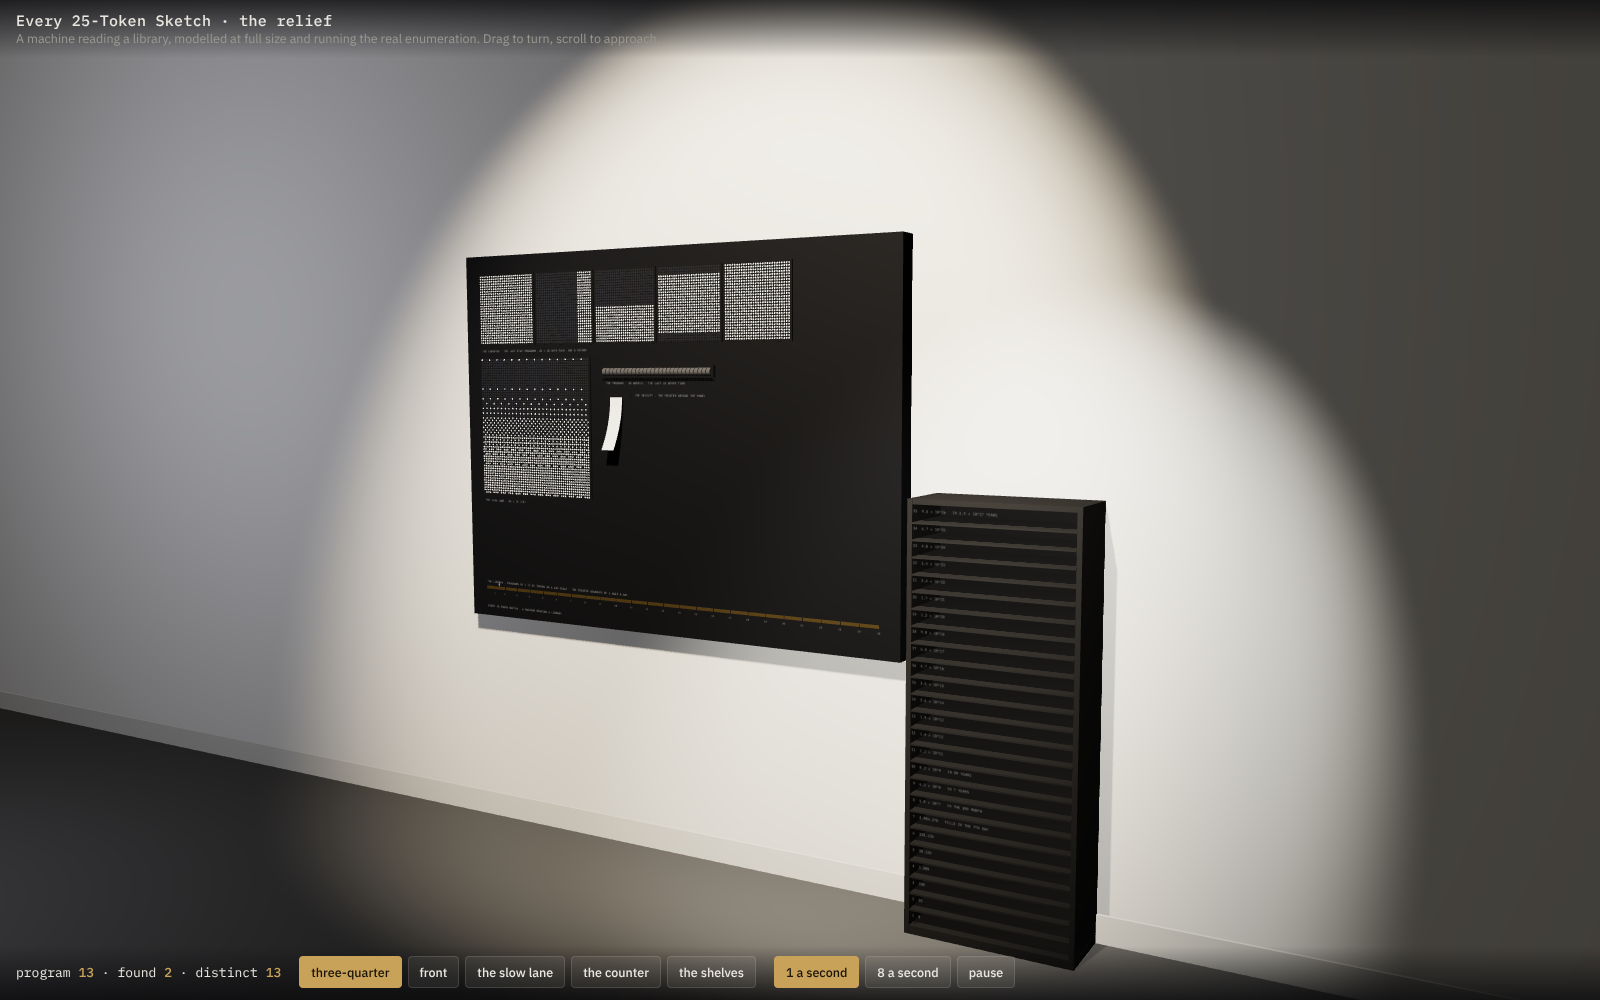
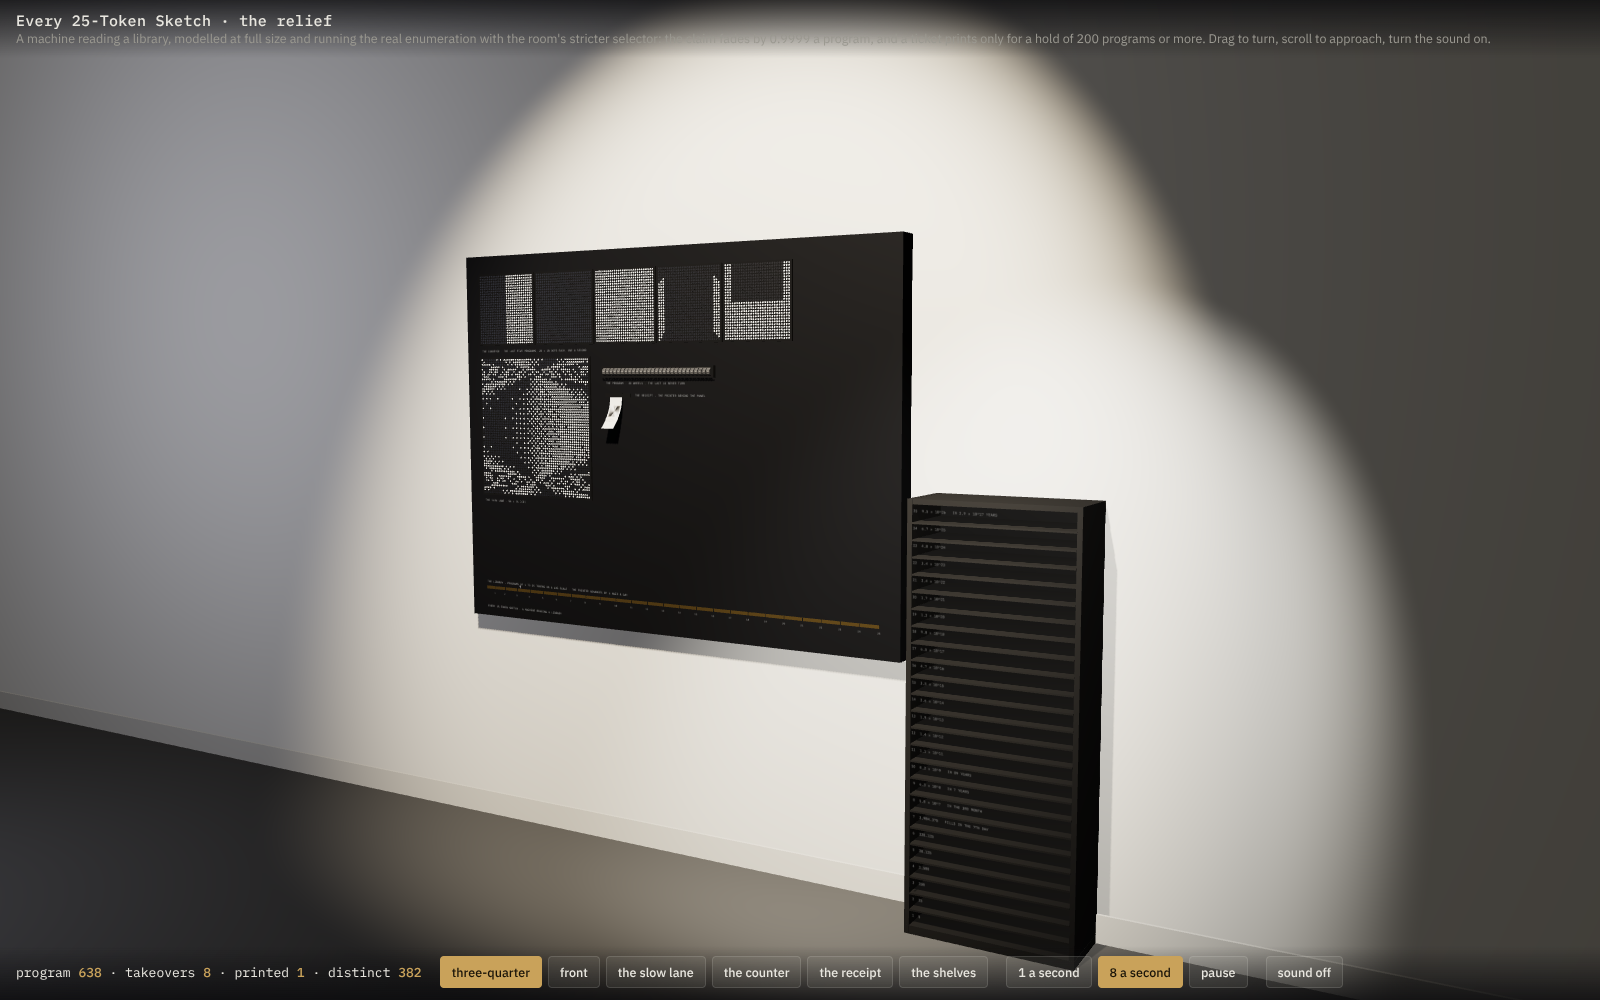
045: the room's stricter selector — fade 0.9999, a ticket only for a hold of 200
Under the screen's rule (fade 0.9992 a program) the machine at one program a second prints
about 100 tickets an exhibition day, 9 m of paper, 39,000 tickets a year, and the sixth shelf
of the bookcase would need 15 m within a month. The room's rule, now the default in
receipt.js (--fade, --minhold), controller.js (--fade), the simulator (?fade, ?minhold) and
the three-dimensional model: the champion's claim fades by 0.9999 a program, and a ticket is
printed only for a champion that held the lane 200 programs or more. Measured on day one at
one a second: 33 takeovers, 16 tickets, 1.5 m of paper; a roll lasts two months; a year is
about 6,000 tickets. The screen on NEORT keeps its own rule.

The model's HUD counts takeovers and printed separately; the paper, the printer's sound and
the shelves follow the printed. The receipt view is framed on the slot. README, BUILD.md and
DESIGN.md carry the measured numbers.

Claude-Session: https://claude.ai/code/session_01FhnofTHF49yv2QouZWRnps

diff --git a/projects/045-every-25-token-sketch/relief/model.html b/projects/045-every-25-token-sketch/relief/model.html
@@ -1,4 +1,4 @@
-<!doctype html><html><head><meta charset="utf-8"><meta name="viewport" content="width=device-width,initial-scale=1"></head><body style="margin:0"><title>A Machine Reading a Library</title>
+<!doctype html><html><head><meta charset="utf-8"><meta name="viewport" content="width=device-width,initial-scale=1"></head><body style="margin:0"><title>A Machine Reading a Library, Strict</title>
 <meta name="claude:viewport-fit-sides" content="cover">
 <style>
   /* layout: a full-window WebGL room with a thin instrument bar across the foot; the room is the page */
@@ -34,11 +34,11 @@
 <div class="hud top">
   <div>
     <h1>Every 25-Token Sketch · the relief</h1>
-    <p class="sub">A machine reading a library, modelled at full size and running the real enumeration. Drag to turn, scroll to approach, turn the sound on to hear it read.</p>
+    <p class="sub">A machine reading a library, modelled at full size and running the real enumeration with the room's stricter selector: the claim fades by 0.9999 a program, and a ticket prints only for a hold of 200 programs or more. Drag to turn, scroll to approach, turn the sound on.</p>
   </div>
 </div>
 <div class="hud bottom">
-  <div class="stat">program <b id="prog">0</b> · found <b id="found">0</b> · distinct <b id="distinct">0</b></div>
+  <div class="stat">program <b id="prog">0</b> · takeovers <b id="found">0</b> · printed <b id="printed">0</b> · distinct <b id="distinct">0</b></div>
   <div class="group" role="group" aria-label="view">
     <button id="v0" aria-pressed="true">three-quarter</button><button id="v1">front</button><button id="v2">the slow lane</button><button id="v3">the counter</button><button id="v4">the receipt</button><button id="v5">the shelves</button>
   </div>
@@ -462,7 +462,9 @@ function dots(k, n, t, dither, out) {
   return out;
 }
 let rate = 1, paused = false;
-let M = Babel.create(document.getElementById('hidden'), { rate, prologue: 0 });
+const FADE = 0.9999, MINHOLD = 200;                   // the room's selector: stricter than the screen's 0.9992, and a ticket only for a hold of 200 or more
+let M = Babel.create(document.getElementById('hidden'), { rate, prologue: 0, fade: FADE });
+const printedOf = (found) => found.filter((f) => (f.until - f.since) * rate >= MINHOLD);
 const grp = (n) => String(n).replace(/\B(?=(\d{3})+(?!\d))/g, ',');
 
 // ───────────────────────── the sound: flip-dots, the counter, the printer ─────────────────────────
@@ -528,7 +530,7 @@ const controls = new OrbitControls(camera, canvas); controls.enableDamping = tru
 // world space: the panel face spans x −1 … 1, y 0.9 … 2.4; the lane centre is (−0.64, 1.70), the counter (0, 1.925), the shelves (1.4, 0.75)
 const VIEWS = [
   { p: [2.9, 1.9, 4.2], t: [0.55, 1.45, 0] }, { p: [0.5, 1.65, 4.6], t: [0.5, 1.55, 0] },
-  { p: [-0.5, 1.78, 1.25], t: [-0.64, 1.70, 0.08] }, { p: [0.12, 1.98, 0.78], t: [0.0, 1.92, 0.08] }, { p: [-0.02, 1.52, 0.58], t: [-0.22, 1.42, 0.12] }, { p: [1.95, 1.35, 2.2], t: [1.4, 0.8, 0.12] },
+  { p: [-0.5, 1.78, 1.25], t: [-0.64, 1.70, 0.08] }, { p: [0.12, 1.98, 0.78], t: [0.0, 1.92, 0.08] }, { p: [-0.04, 1.74, 0.52], t: [-0.22, 1.66, 0.1] }, { p: [1.95, 1.35, 2.2], t: [1.4, 0.8, 0.12] },
 ];
 let viewFrom = null, viewTo = null, viewT = 1;
 function goView(i) { viewFrom = { p: camera.position.clone(), t: controls.target.clone() }; viewTo = { p: new THREE.Vector3(...VIEWS[i].p), t: new THREE.Vector3(...VIEWS[i].t) }; viewT = 0; for (let j = 0; j < 6; j++) document.getElementById('v' + j).setAttribute('aria-pressed', String(j === i)); }
@@ -736,7 +738,7 @@ function animateFields(now) {
 }
 function setCounter(next, now) { const s = String(next).padStart(28, '0'); let changed = 0; for (let i = 0; i < 28; i++) { const d = +s[i], w = wheels[i]; if (d !== w.digit) { w.from = w.digit; w.digit = d; w.at = now; changed++; } } soundTicks(changed); }
 function animateWheels(now) { for (const w of wheels) { let d = w.digit; if (w.at >= 0) { const u = Math.min(1, (now - w.at) / 0.25); const from = w.from, to = w.digit, delta = ((to - from) % 10 + 10) % 10; d = from + delta * (u < 1 ? (1 - Math.cos(u * Math.PI)) / 2 : 1); if (u >= 1) w.at = -1; } w.mesh.rotation.x = ((d + 0.5) / 10) * Math.PI * 2; } }   // the rim's u runs from the face upward; rotating by +θ brings digit d to the face
-const el = { prog: document.getElementById('prog'), found: document.getElementById('found'), distinct: document.getElementById('distinct') };
+const el = { prog: document.getElementById('prog'), found: document.getElementById('found'), printed: document.getElementById('printed'), distinct: document.getElementById('distinct') };
 function tick(now) {
   const s = M.stats(), champ = M.champion();
   if (s.next !== lastNext) {
@@ -745,7 +747,8 @@ function tick(now) {
     setCounter(s.next, now);
     const px = rx(Math.max(1, s.next)); const p = mm(px, 1366, 0.012); pointer.position.set(p.x, p.y, p.z);
     el.prog.textContent = grp(s.next); el.found.textContent = grp(s.found); el.distinct.textContent = grp(s.distinct);
-    const fl = M.found(); fileTickets(fl); if (fl.length !== paperFor) { if (paperFor >= 0 && fl.length > paperFor) soundPrint(); drawTickets(fl); layPaper(fl.length); }
+    const pr = printedOf(M.found()); el.printed.textContent = grp(pr.length);
+    fileTickets(pr); if (pr.length !== paperFor) { if (paperFor >= 0 && pr.length > paperFor) soundPrint(); drawTickets(pr); layPaper(pr.length); }
   }
   if (champ && champ.k !== lastChamp) { lastChamp = champ.k; setField(lane, dots(champ.k, 56, now, true, buf56), now); }
 }
@@ -768,6 +771,6 @@ function setRate(r) { rate = r; document.getElementById('r1').setAttribute('aria
 document.getElementById('sound').addEventListener('click', (e) => { audioEnsure(); audio.on = !audio.on; e.currentTarget.setAttribute('aria-pressed', String(audio.on)); e.currentTarget.textContent = audio.on ? 'sound on' : 'sound off'; if (audio.on) soundFlips(28, false); });
 document.getElementById('r1').addEventListener('click', () => setRate(1));
 document.getElementById('r8').addEventListener('click', () => setRate(8));
-document.getElementById('pause').addEventListener('click', (e) => { paused = !paused; e.currentTarget.setAttribute('aria-pressed', String(paused)); e.currentTarget.textContent = paused ? 'resume' : 'pause'; if (paused) M.destroy(); else { M = Babel.create(document.getElementById('hidden'), { rate, prologue: 0, from: lastNext }); } });
+document.getElementById('pause').addEventListener('click', (e) => { paused = !paused; e.currentTarget.setAttribute('aria-pressed', String(paused)); e.currentTarget.textContent = paused ? 'resume' : 'pause'; if (paused) M.destroy(); else { M = Babel.create(document.getElementById('hidden'), { rate, prologue: 0, from: lastNext, fade: FADE }); } });
 </script>
 </body></html>

diff --git a/projects/045-every-25-token-sketch/receipt/receipt.js b/projects/045-every-25-token-sketch/receipt/receipt.js
@@ -9,6 +9,13 @@
 //
 //   node receipt.js [--device /dev/usb/lp0 | --tcp host:9100 | --out file.bin | --png dir]
 //                   [--width 384|576] [--rate 8] [--start HH:MM] [--replay N] [--cut]
+//                   [--fade 0.9999] [--minhold 200]
+//
+// The room's selector is stricter than the screen's: the champion's claim fades by 0.9999 a
+// program (the screen's 0.9992), and a ticket is printed only for a champion that held the lane
+// 200 programs or more — the ones that lasted. Measured at one program a second, that is about
+// a dozen tickets an exhibition day instead of a hundred. --fade 0.9992 --minhold 0 prints as
+// the screen selects.
 //
 // --device   write ESC/POS bytes to a printer device (USB: /dev/usb/lp0; serial: /dev/ttyUSB0)
 // --tcp      send to a network printer on port 9100
@@ -20,6 +27,8 @@
 //            a screen started at the same minute agree on the program number
 // --replay   do not run live: print the found through program N at once (e.g. 30905), then exit
 // --cut      partial cut after each ticket (printers with a cutter); default: feed only
+// --fade     the champion's fade per program (default 0.9999; the screen uses 0.9992)
+// --minhold  print only a champion that held the lane at least this many programs (default 200)
 //
 // No dependencies. Tested with the ESC/POS raster command GS v 0, which Epson TM-T20/T88 and the
 // common 58 mm kiosk printers accept.
@@ -29,7 +38,7 @@ const fs = require('fs'), path = require('path'), net = require('net'), vm = req
 // ───────────────────────── arguments ─────────────────────────
 const A = {}; const argv = process.argv.slice(2);
 for (let i = 0; i < argv.length; i++) { const k = argv[i]; if (k.startsWith('--')) { const v = argv[i + 1] && !argv[i + 1].startsWith('--') ? argv[++i] : true; A[k.slice(2)] = v; } }
-const WIDTH = +(A.width || 384), RATE = +(A.rate || 8), PROLOGUE = 280;
+const WIDTH = +(A.width || 384), RATE = +(A.rate || 8), PROLOGUE = 280, FADE = +(A.fade || 0.9999), MINHOLD = +(A.minhold === undefined ? 200 : A.minhold);
 const COLS = Math.floor(WIDTH / 12);          // characters a line in the printer's font A (12 dots wide): 32 on 58 mm, 48 on 80 mm
 if (!A.device && !A.tcp && !A.out && !A.png) { console.error('nothing to print to: give --device, --tcp, --out or --png'); process.exit(2); }
 
@@ -145,8 +154,10 @@ function flush(M, when) {                      // print every found not yet prin
   const list = M.found().slice().reverse();
   for (const f of list) {
     if (seen.has(f.k)) continue;
-    seen.add(f.k); printed++;
+    seen.add(f.k);
     const held = Math.round((f.until - f.since) * RATE);
+    if (held < MINHOLD) continue;                                  // it did not last: no ticket
+    printed++;
     const entry = Object.assign({}, f, { held });
     const w = when || jst(Date.now());
     send(ticket(entry, printed, w));
@@ -156,7 +167,7 @@ function flush(M, when) {                      // print every found not yet prin
 }
 if (A.replay) {
   const n = +A.replay;
-  const M = Babel.create(canvas(), { at: n, rate: RATE, prologue: PROLOGUE });
+  const M = Babel.create(canvas(), { at: n, rate: RATE, prologue: PROLOGUE, fade: FADE });
   flush(M, 'replay through program ' + grp(n));
   const s = M.stats();
   console.log('replay done: ' + grp(s.next) + ' programs, ' + grp(s.distinct) + ' distinct pictures, ' + grp(s.dups) + ' repeats, ' + grp(printed) + ' tickets');
@@ -172,7 +183,7 @@ if (A.replay) {
     if (elapsed < 0) console.log('starts at ' + A.start + ' JST, in ' + Math.round(-elapsed) + ' s');
     else console.log('locked to ' + A.start + ' JST: beginning at program ' + grp(from + 1));
   }
-  const M = Babel.create(canvas(), { rate: RATE, prologue: PROLOGUE, from });
-  console.log('live: ' + RATE + ' programs a second, ' + WIDTH + ' dots across. Ctrl-C to stop.');
+  const M = Babel.create(canvas(), { rate: RATE, prologue: PROLOGUE, from, fade: FADE });
+  console.log('live: ' + RATE + ' programs a second, ' + WIDTH + ' dots across, fade ' + FADE + ', a ticket for a hold of ' + MINHOLD + ' or more. Ctrl-C to stop.');
   setInterval(() => { if (rafCb) { const cb = rafCb; rafCb = null; cb(Date.now()); } flush(M); }, 50);
 }

diff --git a/projects/045-every-25-token-sketch/relief/simulator.html b/projects/045-every-25-token-sketch/relief/simulator.html
@@ -42,7 +42,8 @@
     for (let j = 0; j < n; j++) { const y = -2 + (4 * (j + 0.5)) / n; for (let i = 0; i < n; i++) { const x = -2 + (4 * (i + 0.5)) / n; let v = f(x, y, t, D, Mf); if (!isFinite(v)) v = 0; const tone = 0.5 + 0.5 * Math.sin(v); out[j * n + i] = tone > (dither ? (BAYER[j & 3][i & 3] + 0.5) / 16 : 0.5) ? 1 : 0; } }
     return out;
   }
-  const M = Babel.create(document.getElementById('hidden'), { rate: RATE, prologue: 0, at: AT });
+  const FADE = +(q.get('fade') || 0.9999), MINHOLD = +(q.get('minhold') || 200);   // the room's selector: stricter than the screen's
+  const M = Babel.create(document.getElementById('hidden'), { rate: RATE, prologue: 0, at: AT, fade: FADE });
   let scale = 1, ox = 0, oy = 0;
   function layout() {
     const dpr = Math.min(devicePixelRatio || 1, 2);
@@ -60,7 +61,8 @@
   function engrave(s, x, y, size, align) { ctx.fillStyle = 'rgba(232,230,223,0.5)'; ctx.font = size + 'px ' + MONO; ctx.textAlign = align || 'left'; ctx.fillText(s, x, y); }
   const grp = (n) => String(n).replace(/\B(?=(\d{3})+(?!\d))/g, ',');
   function draw() {
-    const s = M.stats(), champ = M.champion(), found = M.found(), t = performance.now() / 1000;
+    const s = M.stats(), champ = M.champion(), all = M.found(), t = performance.now() / 1000;
+    const found = all.filter((f) => (f.until - f.since) * RATE >= MINHOLD);   // the printed: the ones that held the lane
     ctx.setTransform(1, 0, 0, 1, 0, 0); ctx.fillStyle = '#141418'; ctx.fillRect(0, 0, cv.width, cv.height);
     ctx.setTransform(scale, 0, 0, scale, ox, oy);
     // the panel
@@ -105,7 +107,7 @@
     const sx = wx, sy = wy + 100;
     ctx.fillStyle = '#1b1b20'; ctx.fillRect(sx, sy, 120, 14); ctx.fillStyle = '#e8e6df'; ctx.fillRect(sx + 10, sy + 2, 100, 4);
     ctx.fillStyle = 'rgba(232,230,223,0.9)'; ctx.fillRect(sx + 10, sy + 16, 100, Math.min(TILES === 25 ? 500 : 380, 40 + found.length * 6));
-    engrave('THE RECEIPT . ' + grp(found.length) + ' FOUND', sx + 140, sy + 12, 13);
+    engrave('THE RECEIPT . ' + grp(found.length) + ' PRINTED OF ' + grp(all.length) + ' TAKEOVERS . A TICKET FOR A HOLD OF ' + MINHOLD + ' OR MORE', sx + 140, sy + 12, 13);
     // the ruler: the library on a log scale, brass
     const ry = 1380, rx0 = 80, rx1 = PANEL.w - 80, total = Math.log10(Number(Babel.CUM ? Babel.CUM[25] : 1.024e27));
     const rx = (k) => rx0 + ((rx1 - rx0) * Math.log10(Math.max(1, k))) / total;

diff --git a/projects/045-every-25-token-sketch/relief/controller.js b/projects/045-every-25-token-sketch/relief/controller.js
@@ -9,7 +9,11 @@
 // pointer are stepper axes; this controller prints the targets they should hold (the program
 // number; the pointer's position in mm) on a line a second, for the motion board to follow.
 //
-//   node controller.js [--serial /dev/ttyUSB0] [--simulate] [--start HH:MM] [--rate 1]
+//   node controller.js [--serial /dev/ttyUSB0] [--simulate] [--start HH:MM] [--rate 1] [--fade 0.9999]
+//
+// The relief's selector is stricter than the screen's: the champion's claim fades by 0.9999 a
+// program, not 0.9992, so the lane changes hands about a third as often. The receipt printer
+// beside it (receipt.js) adds its own rule: a ticket only for a hold of 200 programs or more.
 //
 // --serial    the RS-485 adapter the panels hang off (115200 8N1, the XY5 default)
 // --simulate  no hardware: print the fields as text once a second
@@ -20,7 +24,7 @@
 const fs = require('fs'), path = require('path'), vm = require('vm');
 const A = {}; const argv = process.argv.slice(2);
 for (let i = 0; i < argv.length; i++) { const k = argv[i]; if (k.startsWith('--')) { const v = argv[i + 1] && !argv[i + 1].startsWith('--') ? argv[++i] : true; A[k.slice(2)] = v; } }
-const RATE = +(A.rate || 1);
+const RATE = +(A.rate || 1), FADE = +(A.fade || 0.9999);
 if (!A.serial && !A.simulate) { console.error('give --serial <device> or --simulate'); process.exit(2); }
 
 // ── the piece, loaded without a browser ──
@@ -80,7 +84,7 @@ if (A.start) {
   from = Math.max(0, Math.floor(((Date.now() - startMs) / 1000) * RATE));
   console.log('locked to ' + A.start + ' JST: beginning at program ' + (from + 1));
 }
-const P = Babel.create(canvas(), { rate: RATE, prologue: 0, from });
+const P = Babel.create(canvas(), { rate: RATE, prologue: 0, from, fade: FADE });
 const grp = (n) => String(n).replace(/\B(?=(\d{3})+(?!\d))/g, ',');
 const total = Math.log10(Number(Babel.CUM[25]));
 const RULER_MM = 1840;                                  // the ruler's travel on the panel, 80 … 1920 mm
